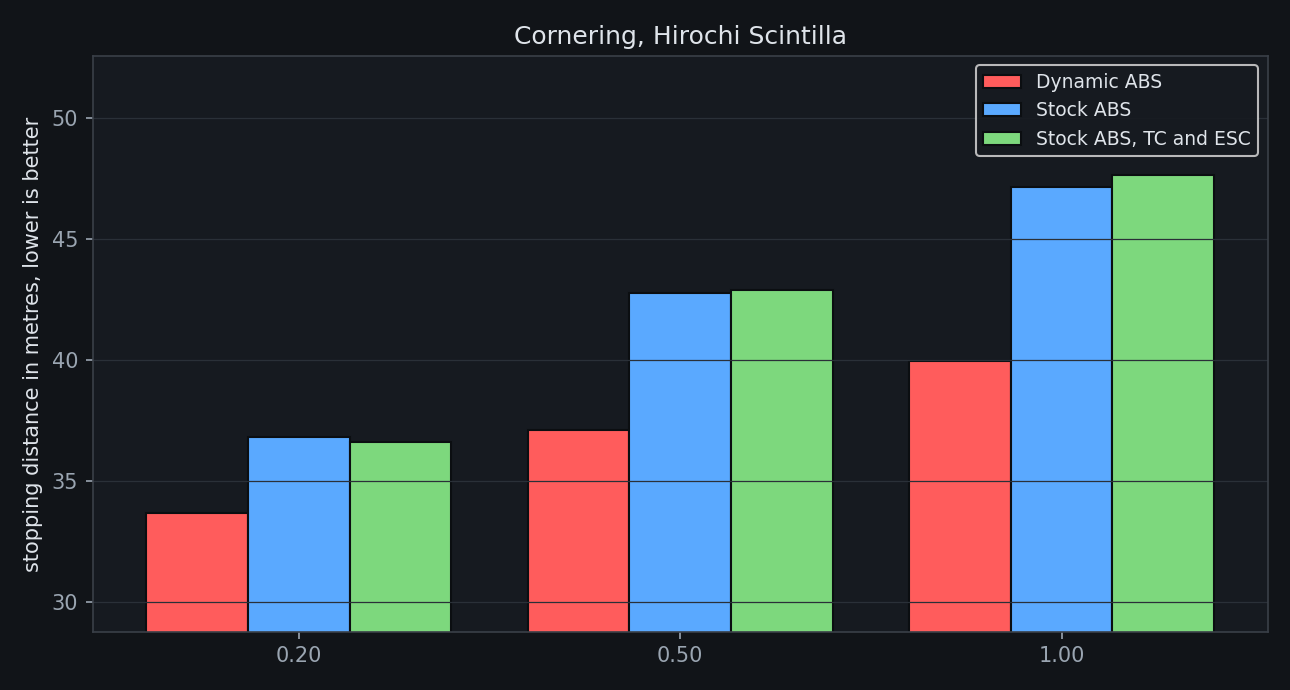
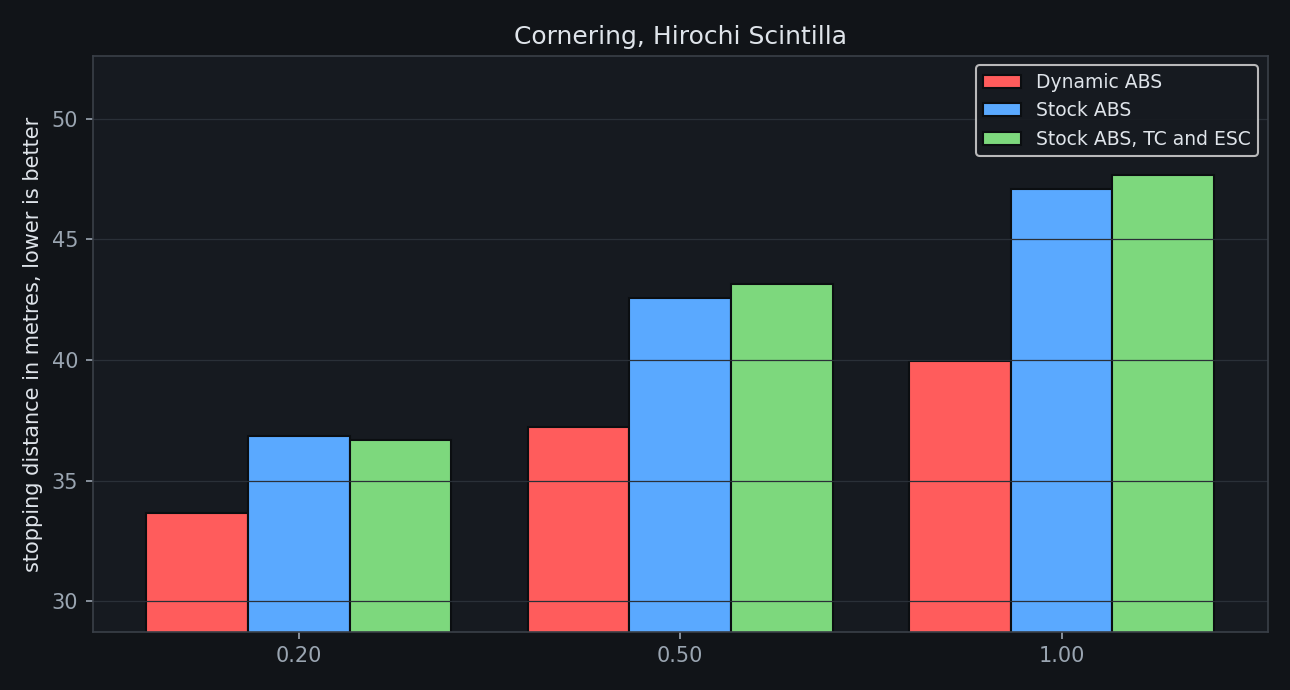
Publish V4.00: results rebuilt with a full respawn before every stop, so no state carries between measurements

diff --git a/README.md b/README.md
@@ -45,9 +45,9 @@ Sweeping left corners at 60 miles per hour with full brake, at the steer angles 
 
 | Steer | Stopping distance against stock | Cars |
 |---|---|---|
-| 0.20 | -3.59 metres | 4 |
-| 0.50 | -4.32 metres | 4 |
-| 1.00 | -4.97 metres | 4 |
+| 0.20 | -3.70 metres | 4 |
+| 0.50 | -4.30 metres | 4 |
+| 1.00 | -4.89 metres | 4 |
 
 ### Surfaces
 
